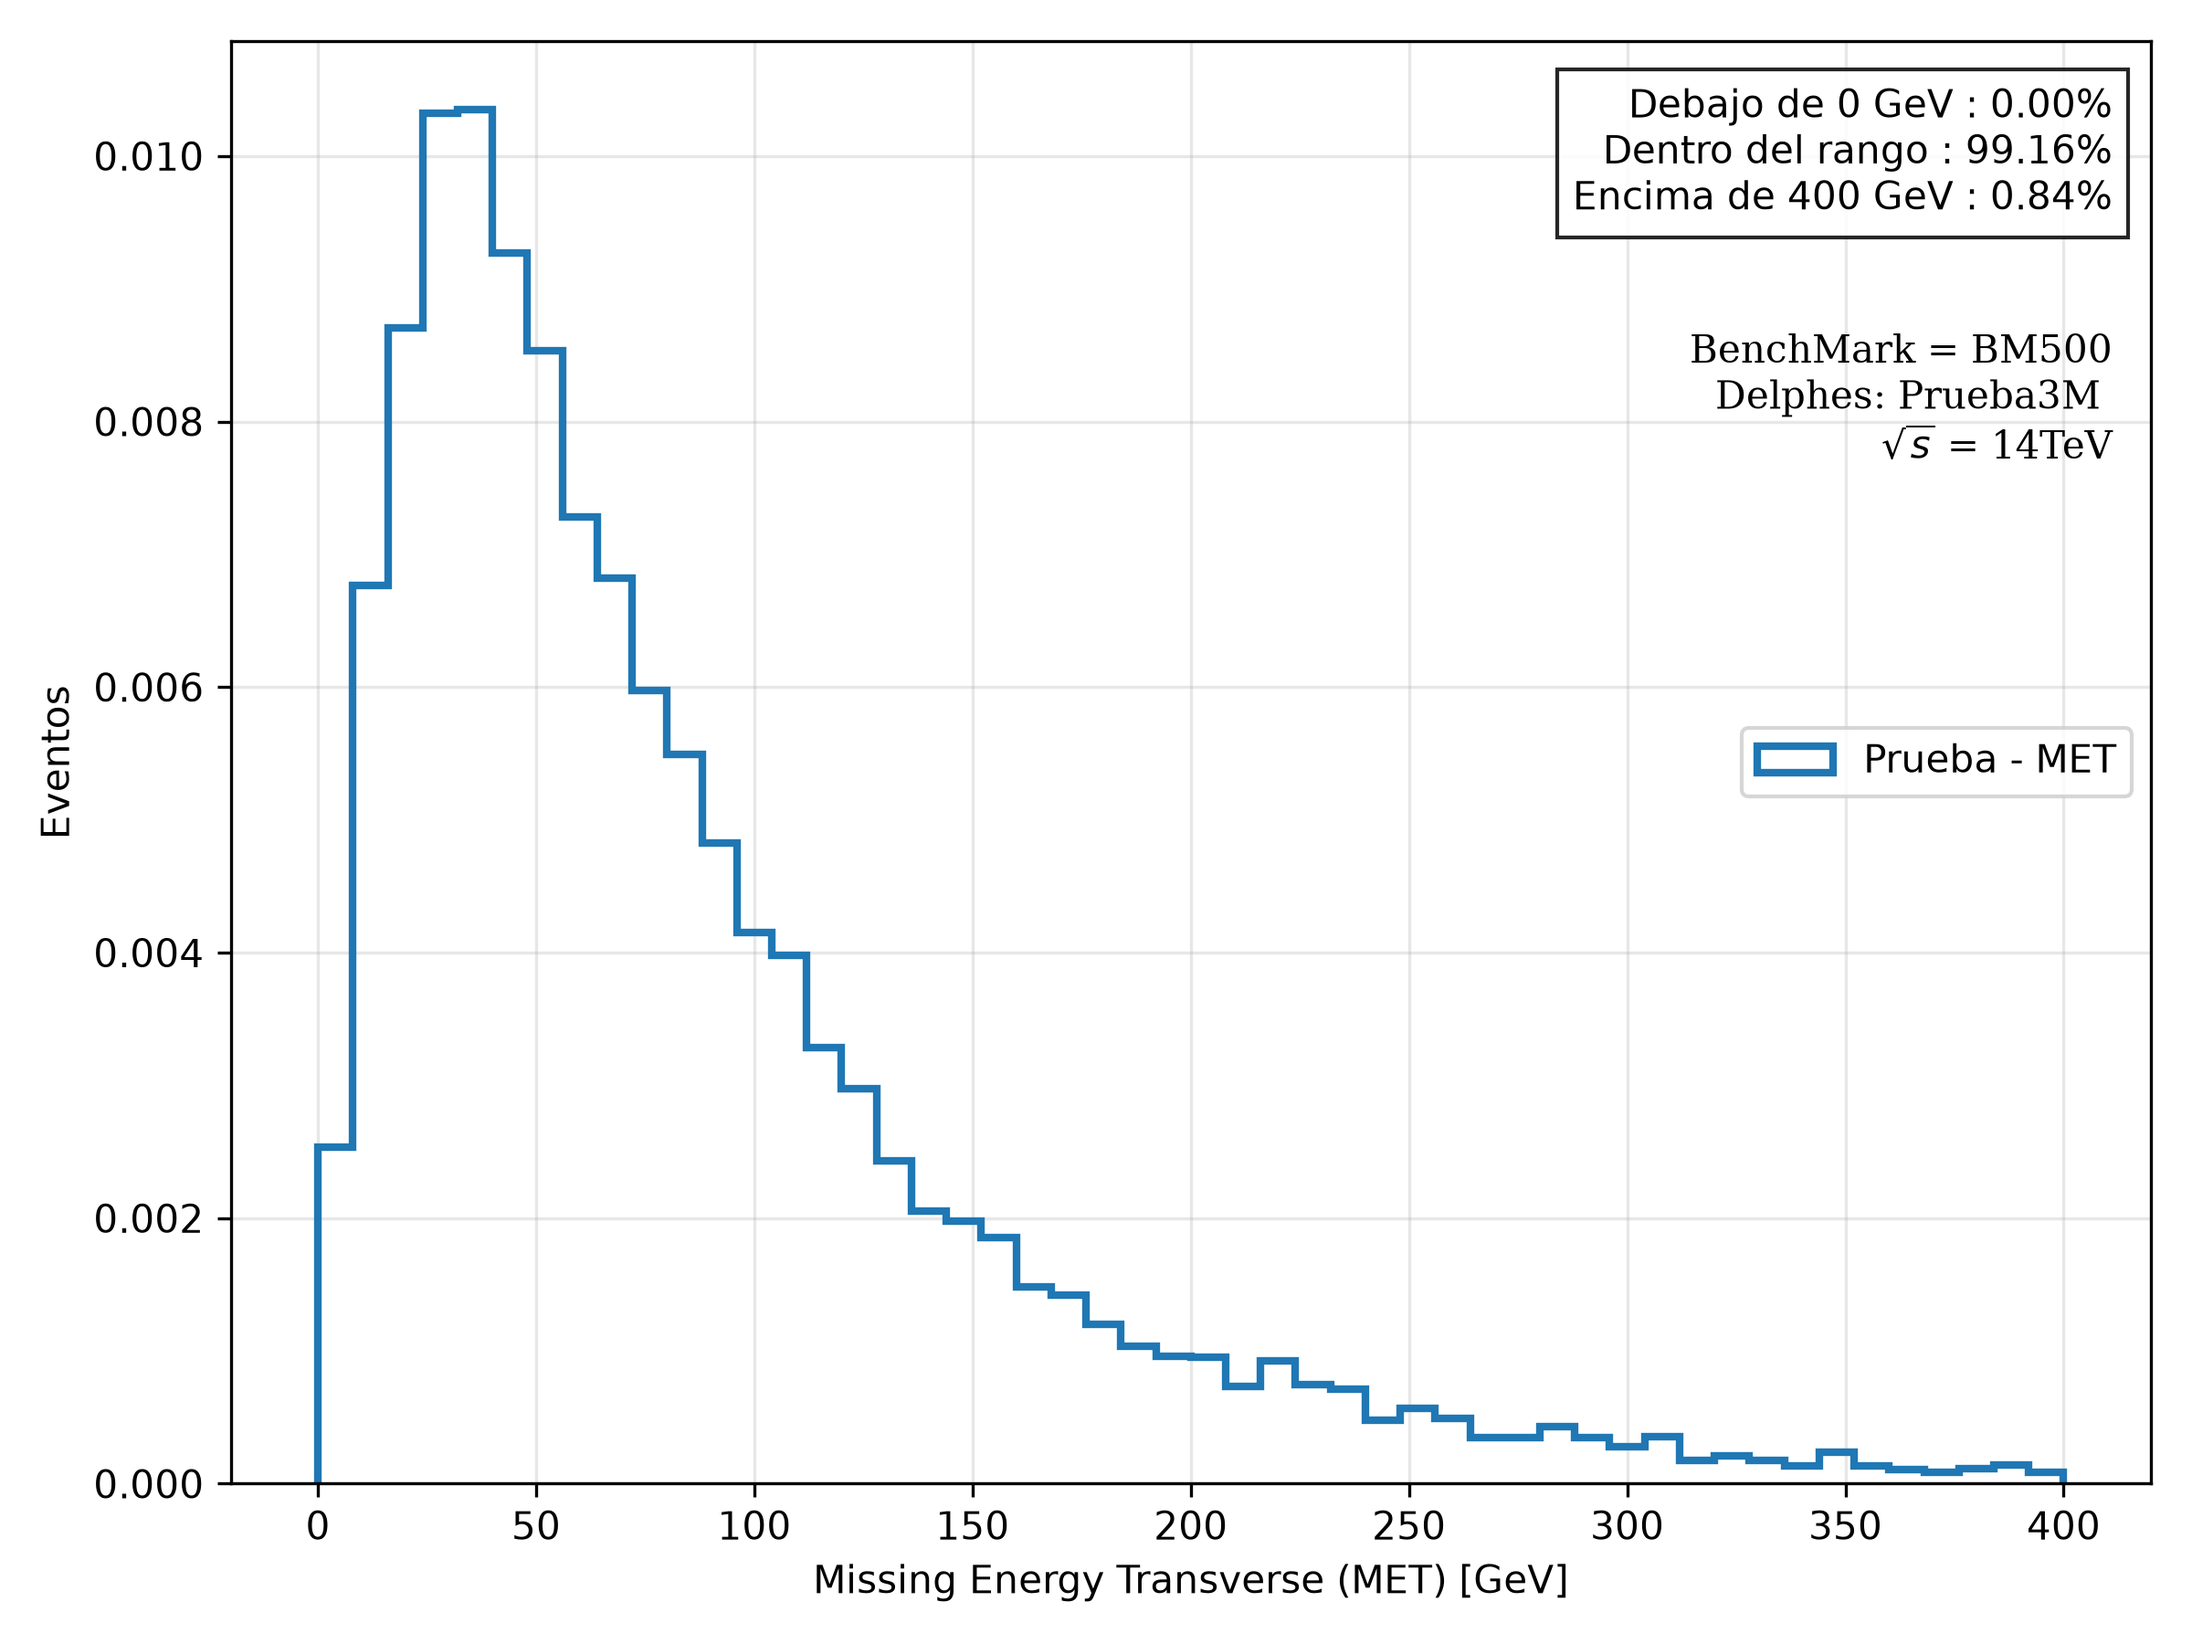
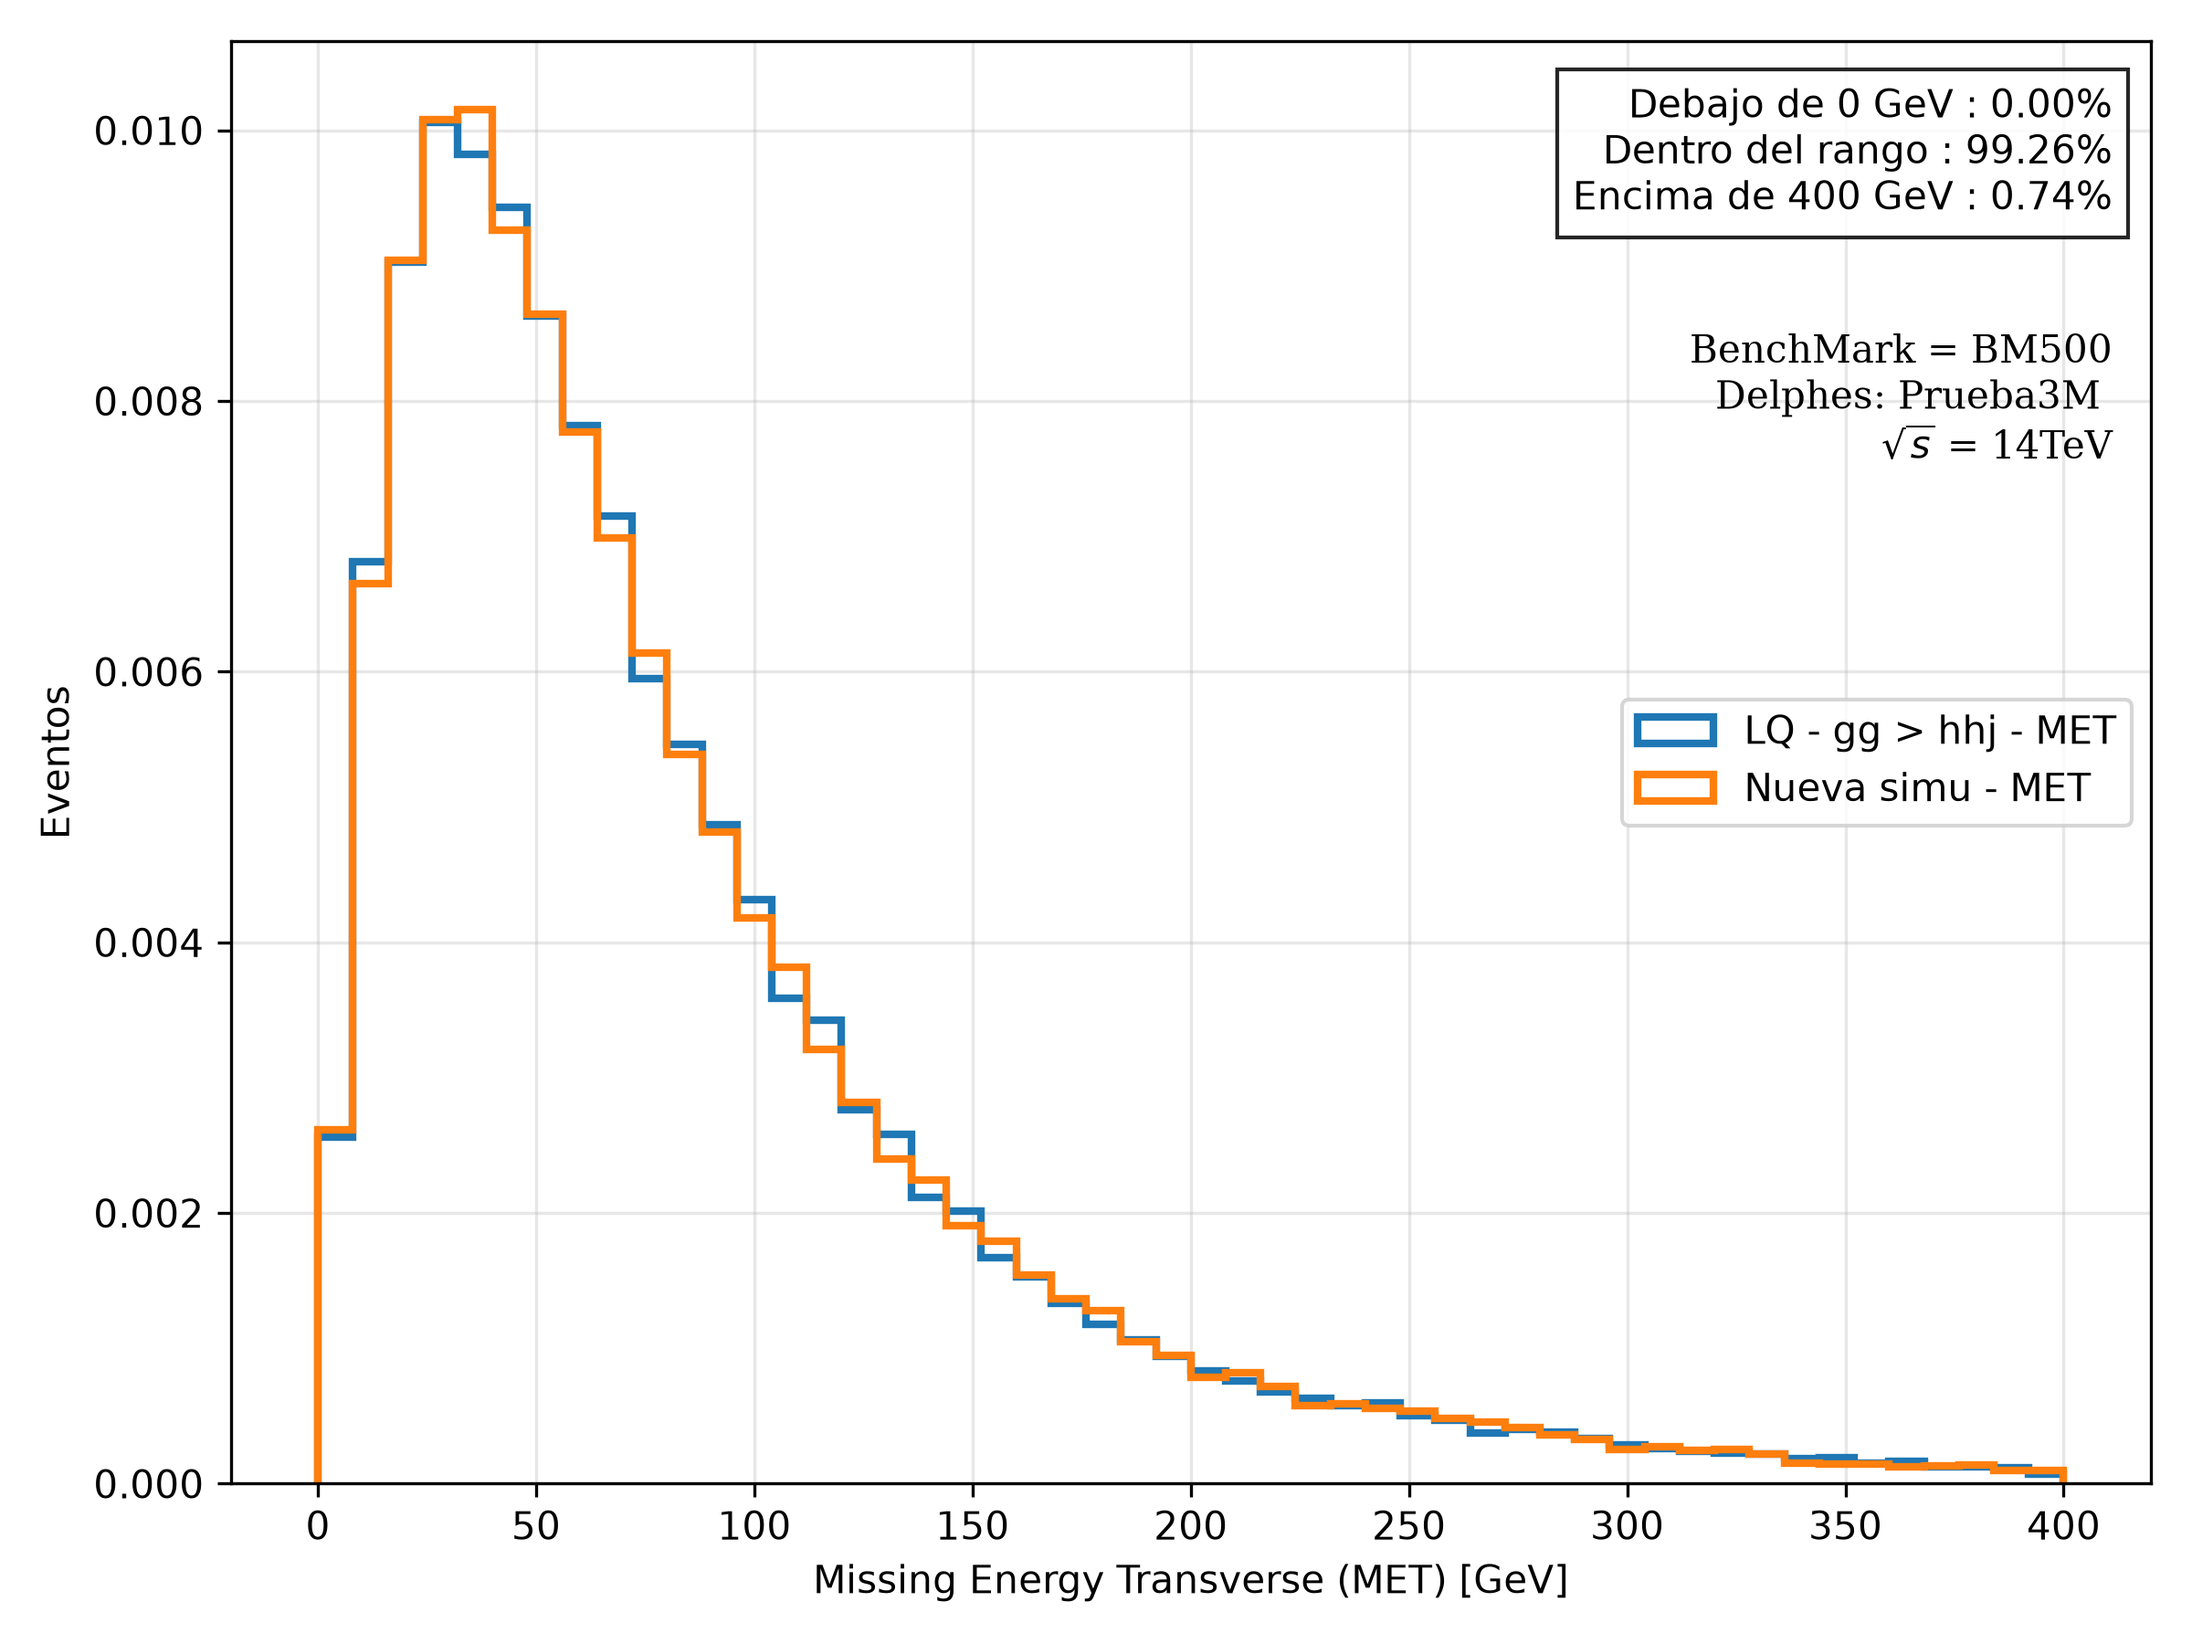
control simu 3M

diff --git a/RecAnalysis/ROOT_analyzer.py b/RecAnalysis/ROOT_analyzer.py
@@ -39,14 +39,15 @@ process = "gg-hhj"
 
 # Paths
 
-rutas = {
-     "Prueba": "/mnt/R5/gbarco/Prueba_MasEstadistica/ROOTs/output_gg_hhj-Prueba_115_*_delphes_events.root",
-}
-
 # rutas = {
-#    "LQ - gg > hhj": "/mnt/R5/gbarco/BM500_gghhj_1800k/ROOTs/output_ggHH_bbtata_BP1_81_*_delphes_events.root",
-#    "BG - pp > tthj": "/mnt/R5/gbarco/pp_tthj_1800k/ROOTs/output_pp_tthj_h-tata_1800k_104_*_delphes_events.root", 
+#     "Prueba": "/mnt/R5/gbarco/Prueba_MasEstadistica/ROOTs/output_gg_hhj-Prueba_115_*_delphes_events.root",
 #}
+
+rutas = {
+   "LQ - gg > hhj": "/mnt/R5/gbarco/BM500_gghhj_1800k/ROOTs/output_ggHH_bbtata_BP1_81_0_delphes_events.root",
+   "Nueva simu":  "/mnt/R5/gbarco/BM500_gghhj-3M/ROOTs/output_gg_hhj-3M_116_29_delphes_events.root",
+#   "BG - pp > tthj": "/mnt/R5/gbarco/pp_tthj_1800k/ROOTs/output_pp_tthj_h-tata_1800k_104_*_delphes_events.root", 
+}
 
 # ============================================================================
 # Data Loading
